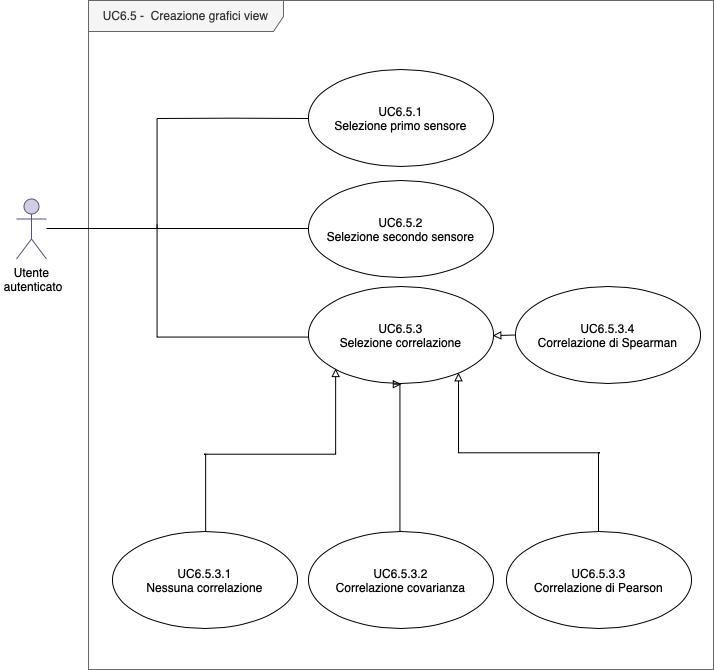
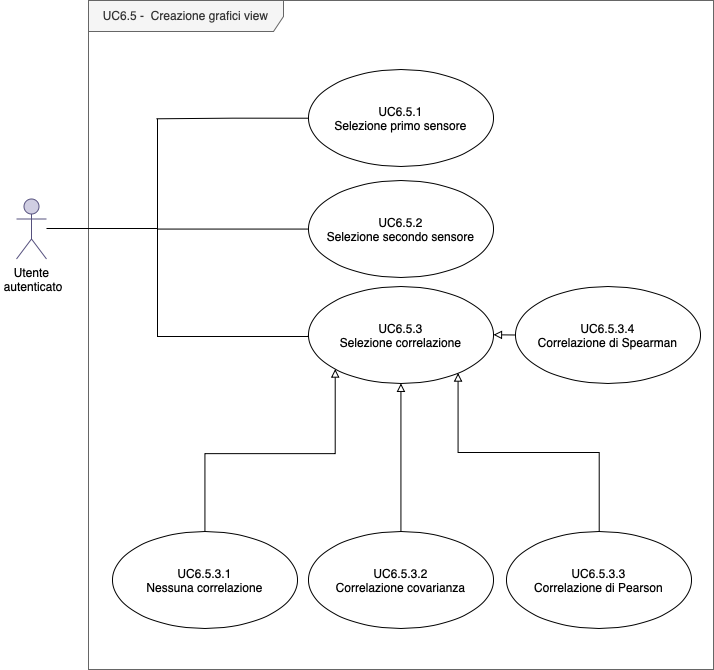
Aggiunto diagramma uc6.5

diff --git a/esterni/analisi_requisiti/res/sections/Sez3-CasiDUso/uc6.tex b/esterni/analisi_requisiti/res/sections/Sez3-CasiDUso/uc6.tex
@@ -84,6 +84,13 @@
 			\end{itemize}
 
 			\subsubsection{UC 6.5 - Creazione grafici view}
+
+			\begin{figure}[H]
+				\centering
+				\includegraphics[scale=0.60]{res/images/uc6.5}
+				\caption{Diagramma che contiene le possibili selezioni alla creazione di un grafico.}
+			\end{figure}
+
 			\begin{itemize}
 				\item \textbf{Attori Primari}: Utente autenticato.
 				\item \textbf{Descrizione}: L'utente può inserire un nuovo grafico all'interno di una pagina \glock{view} andando a selezionare uno o due dati da visualizzare e il tipo di correlazione tra essi.
